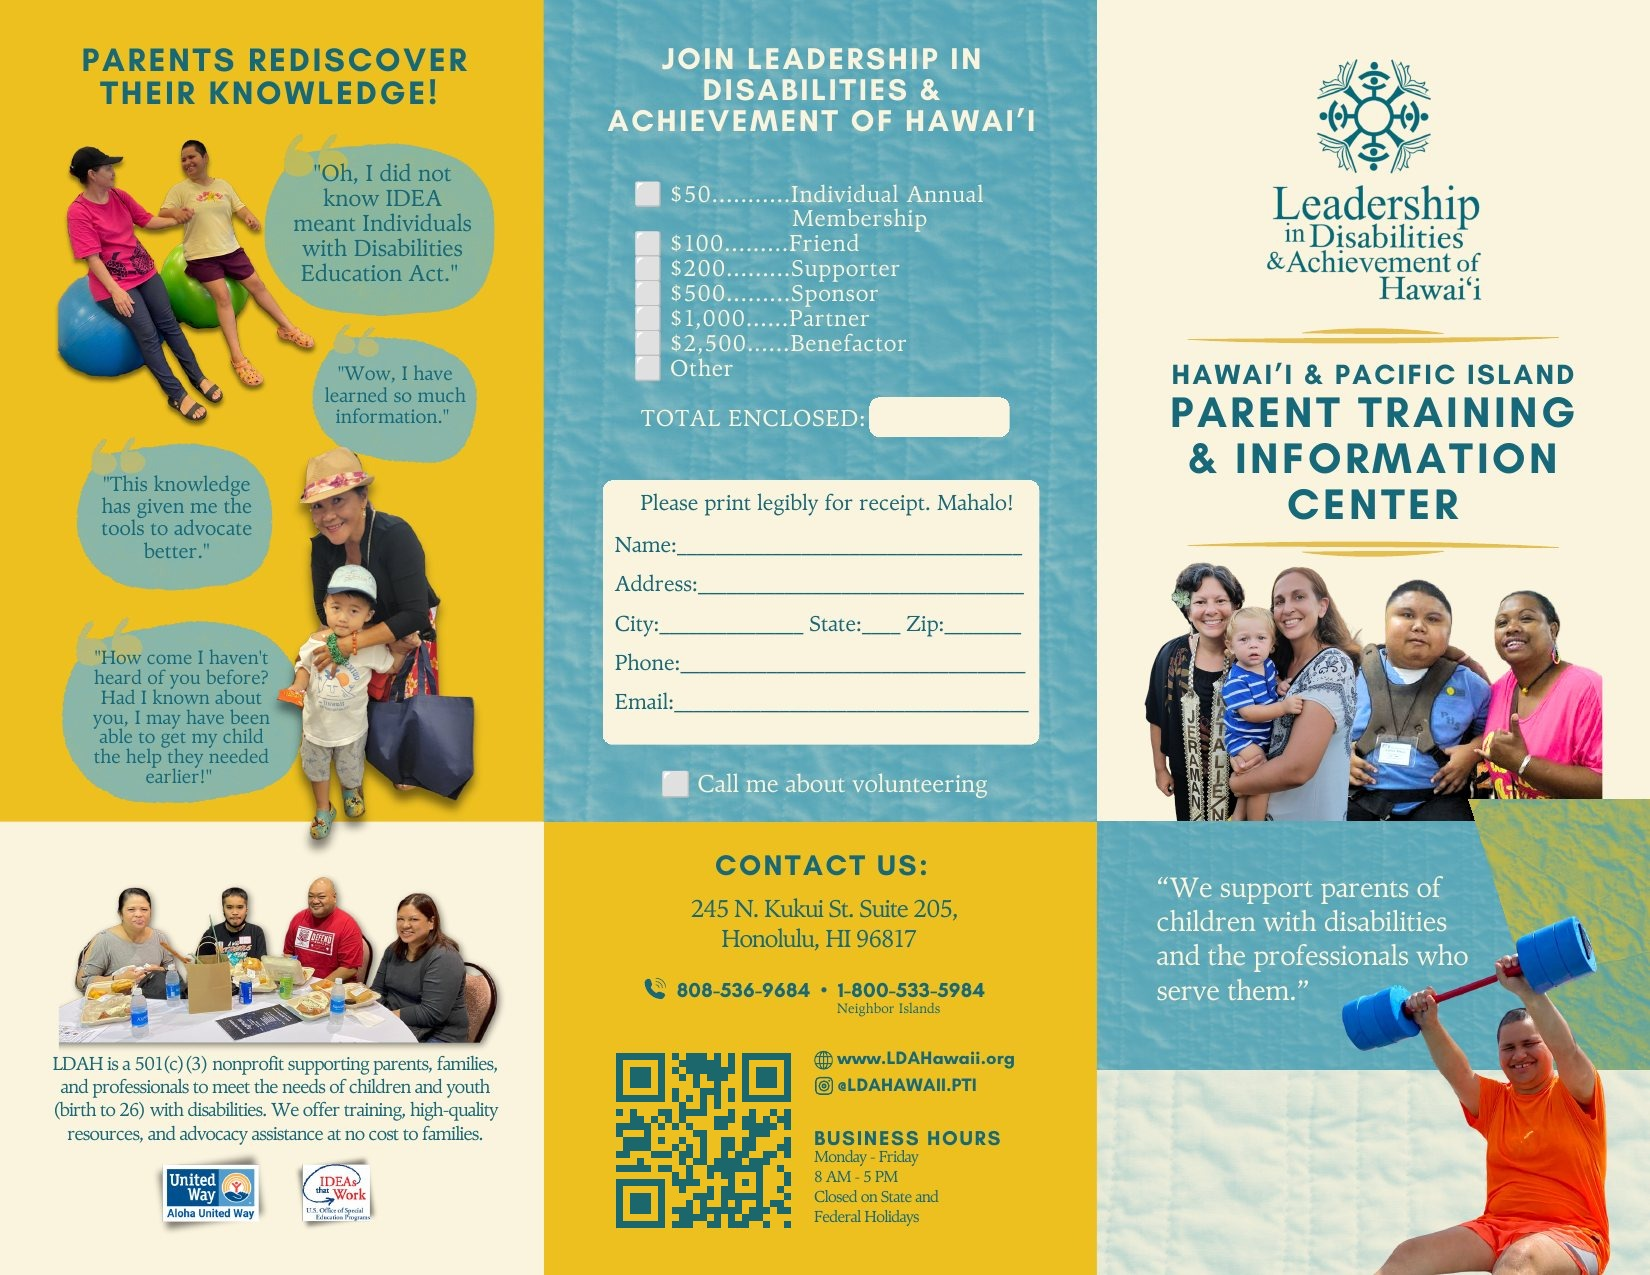
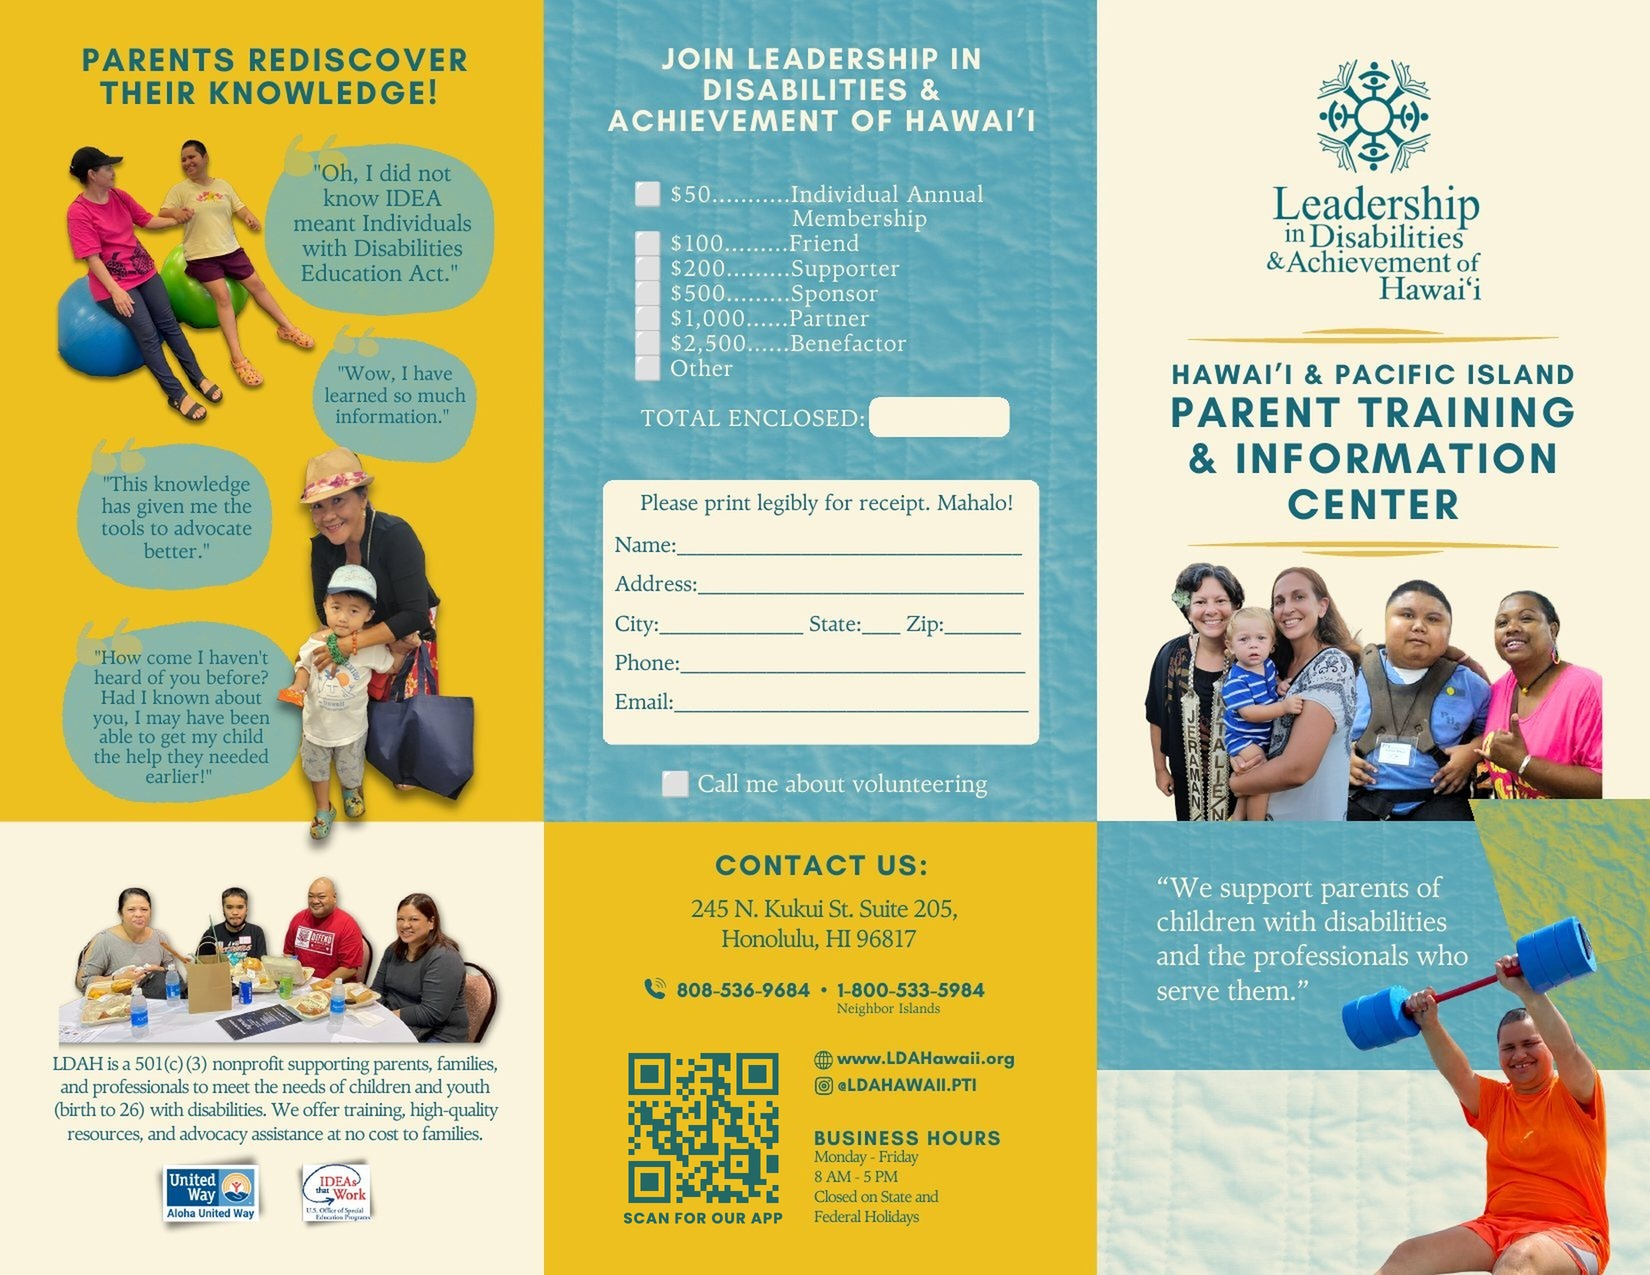
Aloha Packet: updated pages 1-2 (58 Years graphic + app QR to ldahawaii.org/app/); page-01/02 ?v=3
Claude-Session: https://claude.ai/code/session_01QmCmEdy5yZffakzmyP6GfG

Changed region(s): [[0.3709, 0.8259, 0.4945, 0.9788]]

diff --git a/Packet/index.html b/Packet/index.html
@@ -234,11 +234,11 @@
   <p class="lede">Who we are, our mission and values, the services we provide &mdash; and the membership form that helps keep them free.</p>
     <div class="sheets">
       <figure class="sheet">
-        <img src="img/page-01.jpg?v=2" alt="About LDAH and Membership, Outside - cover and membership form" loading="lazy">
+        <img src="img/page-01.jpg?v=3" alt="About LDAH and Membership, Outside - cover and membership form" loading="lazy">
         <figcaption>Outside &mdash; cover &amp; membership form</figcaption>
       </figure>
       <figure class="sheet">
-        <img src="img/page-02.jpg" alt="About LDAH and Membership, Inside - the PTI, the School Readiness Project, and our services" loading="lazy">
+        <img src="img/page-02.jpg?v=3" alt="About LDAH and Membership, Inside - the PTI, the School Readiness Project, and our services" loading="lazy">
         <figcaption>Inside &mdash; the PTI, the School Readiness Project, and our services</figcaption>
       </figure>
     </div>
